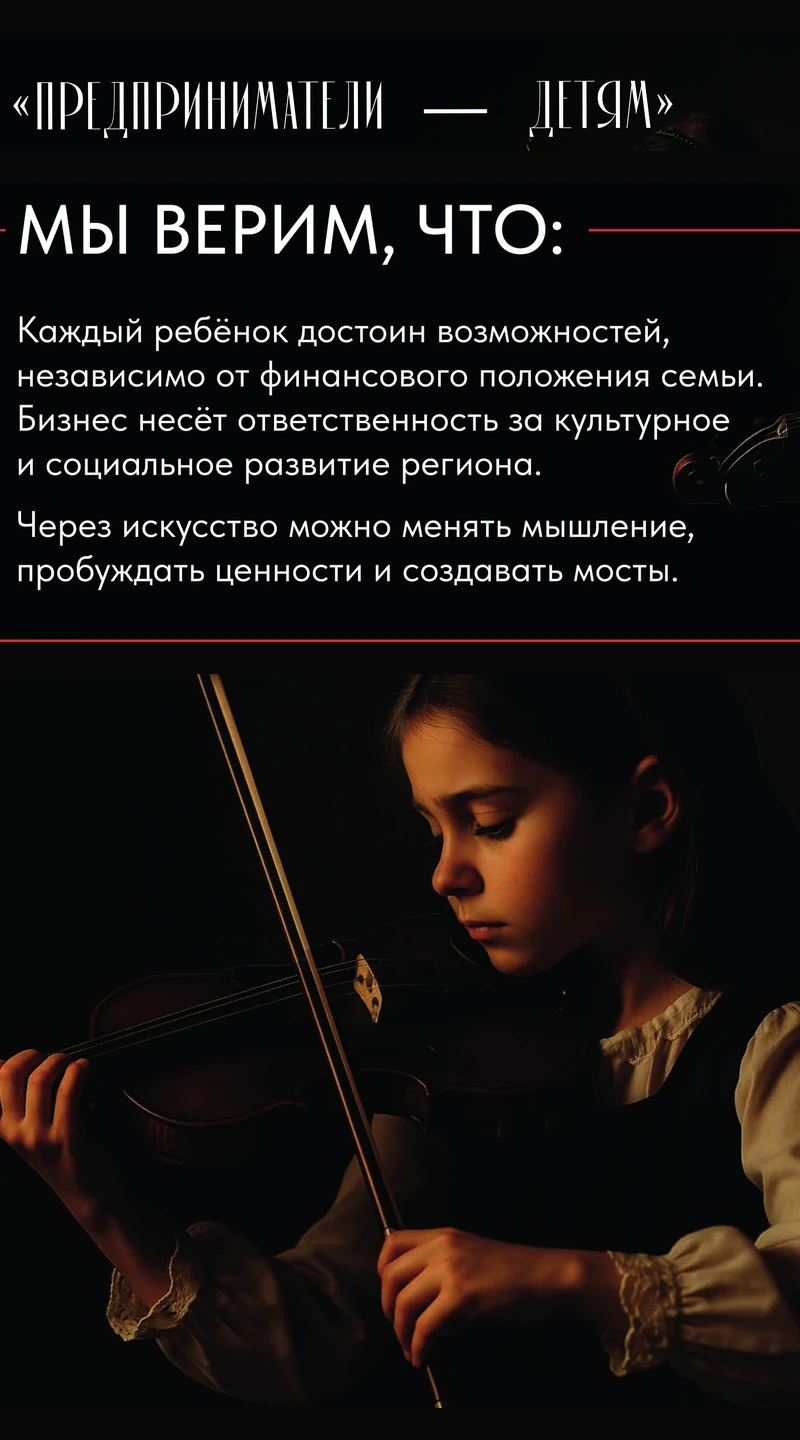
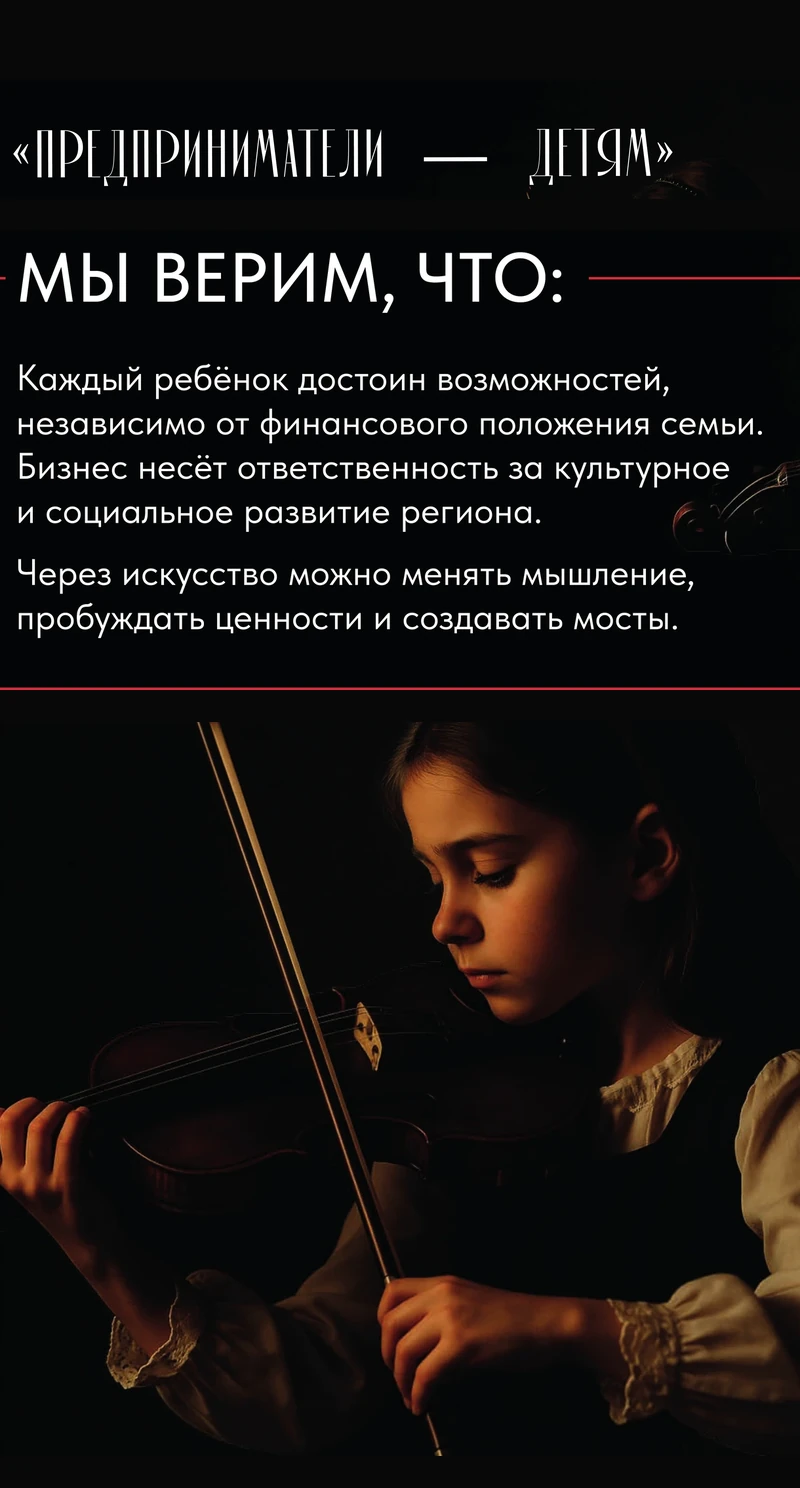
home: refine programme cards and mobile why section
- frame the designer programme as readable cards on <=1279px
- rebuild the mobile why block from the designer heading, list and stage photo
- give the mobile composites consistent top breathing room and larger help photos
- cache-bust the rebuilt mobile artwork and stylesheet

diff --git a/index.html b/index.html
@@ -14,7 +14,7 @@
 	<meta property="og:image" content="assets/img/og.png">
 	<link rel="icon" href="assets/img/accent-circle.svg" type="image/svg+xml">
 	<link rel="preload" href="assets/fonts/TildaSans-VF.woff2" as="font" type="font/woff2" crossorigin>
-	<link rel="stylesheet" href="assets/css/main.css?v=20261023j">
+	<link rel="stylesheet" href="assets/css/main.css?v=20261023m">
 	<script>if (!window.matchMedia || !matchMedia('(prefers-reduced-motion: reduce)').matches) {document.documentElement.classList.add('motion');}</script>
 </head>
 
@@ -72,7 +72,7 @@
 		<section class="programme-pdf" aria-label="Программа «Люди Бренды»">
 			<figure class="pdf-slide reveal">
 				<picture>
-					<source media="(max-width:1279px)" srcset="assets/img/story/mobile-mission.webp" width="800" height="1573">
+					<source media="(max-width:1279px)" srcset="assets/img/story/mobile-mission.webp?v=2" width="800" height="1653">
 					<img src="assets/img/story/pdf-mission.webp"
 					alt="Миссия: создать культурное событие, объединяющее бизнес, искусство и благотворительность, во имя поддержки талантливых детей из семей с ограниченными возможностями."
 					width="2400" height="1350" loading="lazy">
@@ -80,7 +80,7 @@
 			</figure>
 			<figure class="pdf-slide reveal">
 				<picture>
-					<source media="(max-width:1279px)" srcset="assets/img/story/mobile-goal.webp" width="800" height="1411">
+					<source media="(max-width:1279px)" srcset="assets/img/story/mobile-goal.webp?v=2" width="800" height="1374">
 					<img src="assets/img/story/pdf-goal.webp"
 					alt="Цель: привлечение внимания и ресурсов для помощи одарённым детям из малообеспеченных семей через театральный спектакль."
 					width="2400" height="1350" loading="lazy">
@@ -88,7 +88,7 @@
 			</figure>
 			<figure class="pdf-slide reveal">
 				<picture>
-					<source media="(max-width:1279px)" srcset="assets/img/story/mobile-values.webp" width="800" height="1440">
+					<source media="(max-width:1279px)" srcset="assets/img/story/mobile-values.webp?v=3" width="800" height="1488">
 					<img src="assets/img/story/pdf-values.webp"
 					alt="Предприниматели — детям. Мы верим, что каждый ребёнок достоин возможностей, бизнес несёт ответственность за культурное и социальное развитие региона, а через искусство можно менять мышление."
 					width="2400" height="1350" loading="lazy">
@@ -96,21 +96,50 @@
 			</figure>
 			<figure class="pdf-slide reveal">
 				<picture>
-					<source media="(max-width:1279px)" srcset="assets/img/story/mobile-help.webp" width="800" height="1657">
+					<source media="(max-width:1279px)" srcset="assets/img/story/mobile-help.webp?v=3" width="800" height="1495">
 					<img src="assets/img/story/pdf-help.webp"
 					alt="Кому адресована помощь: талантливым детям из малоимущих семей и детям, проявляющим способности в музыке и хоккее. Поддержка может включать обучение, наставничество, участие в конкурсах и покупку необходимых ресурсов."
 					width="2400" height="1350" loading="lazy">
 				</picture>
 			</figure>
-			<figure class="pdf-slide reveal">
-				<picture>
-					<source media="(max-width:1279px)" srcset="assets/img/story/mobile-why.webp" width="800" height="1245">
-					<img src="assets/img/story/pdf-why-points.webp"
+			<figure class="pdf-slide pdf-slide_why reveal">
+				<img src="assets/img/story/pdf-why-points.webp"
 					alt="Почему это уникально: люди, формирующие экономику и политику региона, выходят на сцену; искусство как инструмент диалога между бизнесом и обществом; культурный вклад в ДНК Республики Башкортостан; новый уровень социального партнёрства."
 					width="2400" height="1352" loading="lazy">
-				</picture>
 				<figcaption>Благотворительная акция проекта</figcaption>
 			</figure>
+
+			<section class="why-mobile" aria-label="Почему это уникально?">
+				<div class="why-mobile__card">
+					<img class="why-mobile__heading" src="assets/img/story/why-heading.webp?v=2"
+						alt="Почему это уникально?" width="1464" height="180" loading="lazy">
+					<ol class="why__list" data-reveal-group>
+						<li class="why__item reveal">
+							<span class="why__dot" aria-hidden="true"></span>
+							<p>Люди, формирующие экономику и политику региона, выходят на сцену</p>
+						</li>
+						<li class="why__item reveal">
+							<span class="why__dot" aria-hidden="true"></span>
+							<p>Искусство как инструмент диалога между бизнесом и обществом</p>
+						</li>
+						<li class="why__item reveal">
+							<span class="why__dot" aria-hidden="true"></span>
+							<p>Культурный вклад в ДНК Республики Башкортостан</p>
+						</li>
+						<li class="why__item reveal">
+							<span class="why__dot" aria-hidden="true"></span>
+							<p>Новый уровень социального партнёрства</p>
+						</li>
+					</ol>
+					<figure class="why-mobile__photo reveal_img">
+						<div class="why__media-frame">
+							<img src="assets/img/story/why-stage.jpg" alt="Вручение подарка на сцене" width="1600" height="1067"
+								loading="lazy">
+						</div>
+						<figcaption>Благотворительная акция проекта</figcaption>
+					</figure>
+				</div>
+			</section>
 		</section>
 
 		<!-- ============================ СПЕКТАКЛИ ============================ -->

diff --git a/assets/css/main.css b/assets/css/main.css
@@ -1122,6 +1122,95 @@ html.js-reveal .reveal_img.is-in figcaption {
    }
 }
 
+.why-mobile {
+   display: none;
+}
+
+@media (max-width: 1279px) {
+   .why-mobile {
+      display: block;
+      margin: 0;
+   }
+
+   .why-mobile__card {
+      padding: 24px;
+      background: var(--bg-card);
+      border: 1px solid var(--line-soft);
+      border-radius: 20px;
+   }
+
+   .why-mobile__heading {
+      display: block;
+      width: 100%;
+      height: auto;
+      margin: 8px 0 22px;
+   }
+
+   .why-mobile .why__list {
+      margin-top: 0;
+   }
+
+   .why-mobile__photo {
+      margin: 28px 0 0;
+   }
+
+   .why-mobile__photo .why__media-frame {
+      aspect-ratio: 3 / 2;
+   }
+
+   .why-mobile__photo figcaption {
+      margin-top: 14px;
+      font-size: 15.6px;
+      font-weight: 600;
+      letter-spacing: 0.12em;
+      text-transform: uppercase;
+      color: var(--muted-3);
+   }
+
+   .pdf-slide_why {
+      display: none;
+   }
+}
+
+@media (min-width: 1280px) {
+   .why-mobile {
+      display: none;
+   }
+
+   .pdf-slide_why {
+      display: block;
+   }
+}
+
+@media (max-width: 1279px) {
+   .programme-pdf {
+      padding: 24px 16px;
+      background: var(--bg);
+   }
+
+   .pdf-slide {
+      margin: 0 0 20px;
+      overflow: hidden;
+      border: 1px solid var(--line-soft);
+      border-radius: 20px;
+      background: var(--bg-card);
+   }
+
+   .pdf-slide:last-child {
+      margin-bottom: 0;
+   }
+
+   .pdf-slide img {
+      width: 100%;
+      border-radius: 0;
+   }
+
+   .pdf-slide figcaption {
+      padding: 14px 16px 18px;
+      background: var(--bg-card);
+   }
+}
+
 @media (max-width: 960px) {
    :root {
       --header-h: 78px;

diff --git a/ufa-nov-2026/index.html b/ufa-nov-2026/index.html
@@ -14,7 +14,7 @@
 	<meta property="og:image" content="../assets/img/story/why-stage.jpg">
 	<link rel="icon" href="../assets/img/accent-circle.svg" type="image/svg+xml">
 	<link rel="preload" href="../assets/fonts/TildaSans-VF.woff2" as="font" type="font/woff2" crossorigin>
-	<link rel="stylesheet" href="../assets/css/main.css?v=20261023j">
+	<link rel="stylesheet" href="../assets/css/main.css?v=20261023m">
 	<link rel="stylesheet" href="../assets/css/show.css?v=20261023d">
 	<script>if (!window.matchMedia || !matchMedia('(prefers-reduced-motion: reduce)').matches) {document.documentElement.classList.add('motion');}</script>
 </head>
